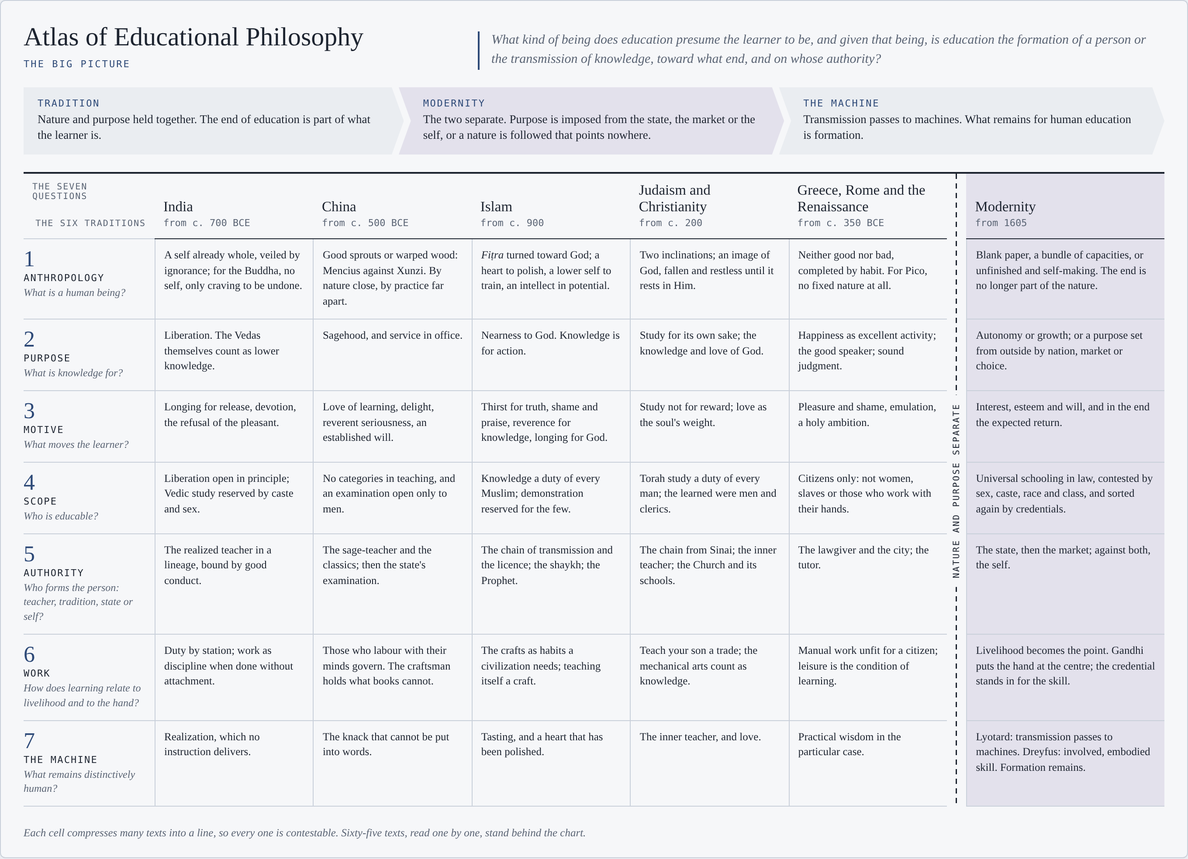
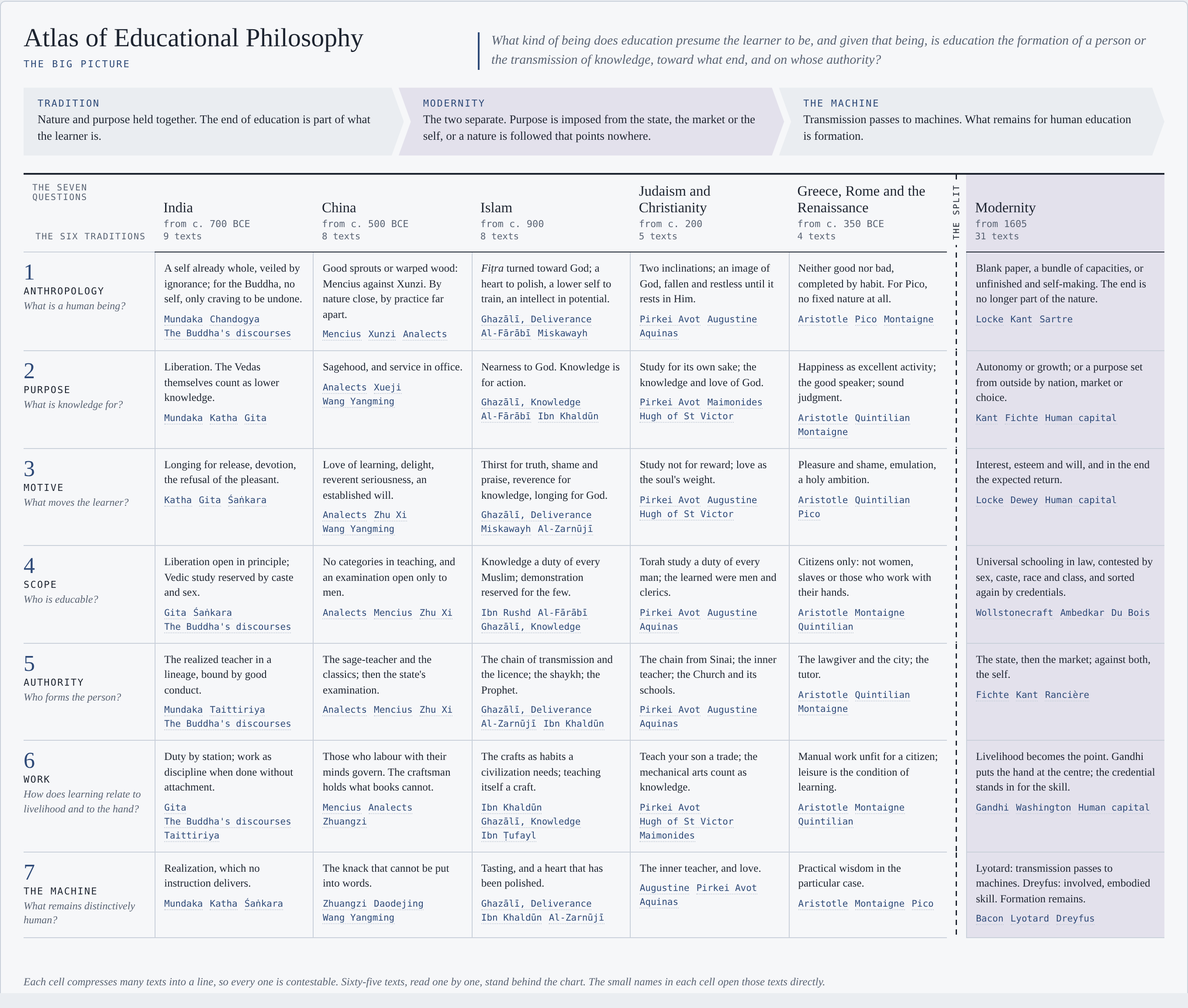
Make the big picture a switchboard into the atlas
Every cell opens a short account of how that tradition answers the
question, with its texts and links to neighbouring cells, the question
page and the tradition essay. Question and tradition headings link to
their pages, key texts are linked from each cell, and three routes walk
through the chart step by step.

Claude-Session: https://claude.ai/code/session_01QoMjmo5U5HiLa3LL1vazQt

diff --git a/index.html b/index.html
@@ -246,9 +246,57 @@ dt .n{color:var(--accent)}
 .bp-rh span:last-child{font-style:italic;color:var(--muted);font-size:12px}
 .bp-td{border-left:1px solid var(--rule)}
 .bp-mod{background:var(--bp-mod)}
-.bp-split{grid-row:1 / span 8;grid-column:7;display:flex;align-items:center;justify-content:center;background:repeating-linear-gradient(180deg,var(--fg) 0 6px,transparent 6px 11px) center/1.5px 100% no-repeat}
-.bp-split span{writing-mode:vertical-rl;transform:rotate(180deg);font:500 10px var(--mono);letter-spacing:.14em;text-transform:uppercase;background:var(--surface);color:var(--fg);padding:10px 2px}
 .bp-foot{font-size:12.5px;color:var(--muted);font-style:italic}
+
+
+.bp-arc li a{display:grid;gap:3px;text-decoration:none;color:inherit}
+.bp-arc li a:hover span{color:var(--accent)}
+.bp-routes{display:flex;flex-wrap:wrap;gap:8px 10px;align-items:stretch}
+.bp-rl{font:500 10.5px var(--mono);letter-spacing:.12em;text-transform:uppercase;color:var(--muted);align-self:center;margin-right:4px}
+.bp-routes a{display:grid;gap:1px;padding:7px 12px;border:1px solid var(--rule);border-radius:4px;text-decoration:none;background:var(--bg);min-width:0}
+.bp-routes a b{font:400 15px/1.2 var(--display)}
+.bp-routes a span{font-size:12px;color:var(--muted)}
+.bp-routes a:hover,.bp-routes a[aria-current="true"]{border-color:var(--accent)}
+.bp-routes a[aria-current="true"]{box-shadow:inset 0 -2px 0 var(--accent)}
+.bp-grid{grid-template-columns:150px repeat(5,minmax(0,1fr)) 22px minmax(0,1.25fr)}
+.bp-sp{border-bottom:1px solid transparent;background:repeating-linear-gradient(180deg,var(--fg) 0 6px,transparent 6px 11px) center/1.5px 100% no-repeat}
+.bp-sp.h{display:flex;align-items:flex-end;justify-content:center;padding-bottom:8px}
+.bp-sp.h span{writing-mode:vertical-rl;transform:rotate(180deg);font:500 9.5px var(--mono);letter-spacing:.14em;text-transform:uppercase;background:var(--surface);padding:6px 1px}
+.bp-th a,.bp-rh a{text-decoration:none;color:inherit;display:grid;gap:2px}
+.bp-th a:hover b,.bp-rh a:hover b{color:var(--accent)}
+.bp-th em{font:normal 10.5px var(--mono);color:var(--muted)}
+.bp-td{position:relative;display:grid;gap:8px;align-content:start;cursor:pointer;transition:background .15s}
+.bp-td:hover{background:color-mix(in srgb,var(--accent) 7%,transparent)}
+.bp-td.on{background:color-mix(in srgb,var(--accent) 14%,transparent);box-shadow:inset 0 0 0 1.5px var(--accent)}
+.bp-td.dim{opacity:.38}
+.bp-td .cs{color:var(--fg)}
+.bp-td button.cs{all:unset;cursor:pointer;display:block}
+.bp-td button.cs:focus-visible{outline:2px solid var(--accent);outline-offset:2px}
+.bp-td .ks{display:flex;flex-wrap:wrap;gap:3px 8px}
+.bp-td .ks a{font:500 10.5px var(--mono);color:var(--accent);text-decoration:none;border-bottom:1px dotted var(--rule)}
+.bp-td .ks a:hover{border-bottom-color:var(--accent)}
+.bp-td:has(.st){padding-right:30px}
+.bp-td .st{position:absolute;top:6px;right:6px;width:19px;height:19px;border-radius:50%;background:var(--accent);color:var(--bg);font:500 11px/19px var(--mono);text-align:center}
+.bp-panel{grid-column:1 / -1;border:1.5px solid var(--accent);border-radius:4px;background:var(--bg);margin:6px 0 12px;padding:18px 20px;display:grid;gap:12px}
+#bppanel-narrow .bp-panel{margin-top:16px}
+.bp-panel .pe{display:flex;flex-wrap:wrap;gap:4px 14px;font:500 11px var(--mono);letter-spacing:.1em;text-transform:uppercase;color:var(--muted)}
+.bp-panel .pe a{color:var(--accent);text-decoration:none}
+.bp-panel .rt{font:500 11px var(--mono);letter-spacing:.08em;color:var(--ochre);text-transform:uppercase}
+.bp-panel .rstep{font:400 18px/1.4 var(--display);border-left:3px solid var(--ochre);padding-left:12px;max-width:62ch}
+.bp-panel h3{font-size:22px;max-width:40ch}
+.bp-panel .story{max-width:66ch;font-size:15.5px}
+.bp-panel ul{list-style:none;margin:0;padding:0;display:grid;gap:0;border-top:1px solid var(--rule)}
+.bp-panel li{display:grid;grid-template-columns:200px minmax(0,1fr);gap:14px;padding:7px 0;border-bottom:1px solid var(--rule);font-size:14px}
+.bp-panel li.key a{font-weight:600}
+.bp-panel li .tag{display:inline-flex;align-items:center;gap:5px;font:500 11px var(--mono);margin-right:8px;white-space:nowrap}
+.bp-panel li .tag::before{content:"";width:8px;height:8px;border-radius:50%;background:currentColor}
+.bp-panel .lt{font:500 10.5px var(--mono);letter-spacing:.1em;text-transform:uppercase;color:var(--muted)}
+.bp-nav{display:flex;flex-wrap:wrap;gap:8px;align-items:center;justify-content:space-between;padding-top:4px}
+.bp-nav .grp{display:flex;flex-wrap:wrap;gap:6px}
+.bp-nav a{font:500 12px var(--mono);padding:5px 10px;border:1px solid var(--rule);border-radius:3px;text-decoration:none;background:var(--surface)}
+.bp-nav a:hover{border-color:var(--accent);color:var(--accent)}
+.bp-nav a.pri{background:var(--accent);border-color:var(--accent);color:var(--bg)}
+@media (max-width:900px){.bp-panel li{grid-template-columns:minmax(0,1fr);gap:2px}}
 
 /* Narrow screens: contents become a drawer */
 @media (max-width:900px){
@@ -359,20 +407,23 @@ dt .n{color:var(--accent)}
     <article class="view view-wide" data-view="big" hidden>
       <div class="eyebrow">Begin here</div>
       <h1>The Big Picture</h1>
-      <p class="sub">The seven questions set against the six traditions, with the movement of the whole atlas above them. On a small screen, scroll the chart sideways. <a href="big-picture.png" target="_blank" rel="noopener">Open the chart as an image</a>.</p>
+      <p class="sub">The seven questions set against the six traditions, with the movement of the whole atlas above them. Every part of the chart opens onto the atlas: choose a cell to read how that tradition answers the question and go on to its texts, choose a question or a tradition to read its page, or follow one of the three routes, which walk through the chart as a story. On a small screen, scroll the chart sideways. <a href="big-picture.png" target="_blank" rel="noopener">Open the chart as an image</a>.</p>
       <div class="bp-scroll"><figure class="bp" id="bp" aria-label="The seven questions answered by the six traditions">
         <div class="bp-head">
           <div class="bp-title">Atlas of Educational Philosophy<span>The big picture</span></div>
           <p class="bp-gq">What kind of being does education presume the learner to be, and given that being, is education the formation of a person or the transmission of knowledge, toward what end, and on whose authority?</p>
         </div>
         <ol class="bp-arc">
-          <li><b>Tradition</b><span>Nature and purpose held together. The end of education is part of what the learner is.</span></li>
-          <li><b>Modernity</b><span>The two separate. Purpose is imposed from the state, the market or the self, or a nature is followed that points nowhere.</span></li>
-          <li><b>The machine</b><span>Transmission passes to machines. What remains for human education is formation.</span></li>
+          <li><a href="#q-purpose"><b>Tradition</b><span>Nature and purpose held together. The end of education is part of what the learner is.</span></a></li>
+          <li><a href="#on-mod"><b>Modernity</b><span>The two separate. Purpose is imposed from the state, the market or the self, or a nature is followed that points nowhere.</span></a></li>
+          <li><a href="#q-machine"><b>The machine</b><span>Transmission passes to machines. What remains for human education is formation.</span></a></li>
         </ol>
-        <div class="bp-grid"><div class="bp-c bp-corner"><span>The seven questions</span><span>The six traditions</span></div><div class="bp-c bp-th bp-india"><b>India</b><span>from c. 700 BCE</span></div><div class="bp-c bp-th bp-china"><b>China</b><span>from c. 500 BCE</span></div><div class="bp-c bp-th bp-islam"><b>Islam</b><span>from c. 900</span></div><div class="bp-c bp-th bp-abr"><b>Judaism and Christianity</b><span>from c. 200</span></div><div class="bp-c bp-th bp-west"><b>Greece, Rome and the Renaissance</b><span>from c. 350 BCE</span></div><div class="bp-split" aria-hidden="true"><span>Nature and purpose separate</span></div><div class="bp-c bp-th bp-mod"><b>Modernity</b><span>from 1605</span></div><div class="bp-c bp-rh"><span class="bp-n">1</span><b>Anthropology</b><span>What is a human being?</span></div><div class="bp-c bp-td bp-india">A self already whole, veiled by ignorance; for the Buddha, no self, only craving to be undone.</div><div class="bp-c bp-td bp-china">Good sprouts or warped wood: Mencius against Xunzi. By nature close, by practice far apart.</div><div class="bp-c bp-td bp-islam"><i>Fiṭra</i> turned toward God; a heart to polish, a lower self to train, an intellect in potential.</div><div class="bp-c bp-td bp-abr">Two inclinations; an image of God, fallen and restless until it rests in Him.</div><div class="bp-c bp-td bp-west">Neither good nor bad, completed by habit. For Pico, no fixed nature at all.</div><div class="bp-c bp-td bp-mod">Blank paper, a bundle of capacities, or unfinished and self-making. The end is no longer part of the nature.</div><div class="bp-c bp-rh"><span class="bp-n">2</span><b>Purpose</b><span>What is knowledge for?</span></div><div class="bp-c bp-td bp-india">Liberation. The Vedas themselves count as lower knowledge.</div><div class="bp-c bp-td bp-china">Sagehood, and service in office.</div><div class="bp-c bp-td bp-islam">Nearness to God. Knowledge is for action.</div><div class="bp-c bp-td bp-abr">Study for its own sake; the knowledge and love of God.</div><div class="bp-c bp-td bp-west">Happiness as excellent activity; the good speaker; sound judgment.</div><div class="bp-c bp-td bp-mod">Autonomy or growth; or a purpose set from outside by nation, market or choice.</div><div class="bp-c bp-rh"><span class="bp-n">3</span><b>Motive</b><span>What moves the learner?</span></div><div class="bp-c bp-td bp-india">Longing for release, devotion, the refusal of the pleasant.</div><div class="bp-c bp-td bp-china">Love of learning, delight, reverent seriousness, an established will.</div><div class="bp-c bp-td bp-islam">Thirst for truth, shame and praise, reverence for knowledge, longing for God.</div><div class="bp-c bp-td bp-abr">Study not for reward; love as the soul's weight.</div><div class="bp-c bp-td bp-west">Pleasure and shame, emulation, a holy ambition.</div><div class="bp-c bp-td bp-mod">Interest, esteem and will, and in the end the expected return.</div><div class="bp-c bp-rh"><span class="bp-n">4</span><b>Scope</b><span>Who is educable?</span></div><div class="bp-c bp-td bp-india">Liberation open in principle; Vedic study reserved by caste and sex.</div><div class="bp-c bp-td bp-china">No categories in teaching, and an examination open only to men.</div><div class="bp-c bp-td bp-islam">Knowledge a duty of every Muslim; demonstration reserved for the few.</div><div class="bp-c bp-td bp-abr">Torah study a duty of every man; the learned were men and clerics.</div><div class="bp-c bp-td bp-west">Citizens only: not women, slaves or those who work with their hands.</div><div class="bp-c bp-td bp-mod">Universal schooling in law, contested by sex, caste, race and class, and sorted again by credentials.</div><div class="bp-c bp-rh"><span class="bp-n">5</span><b>Authority</b><span>Who forms the person: teacher, tradition, state or self?</span></div><div class="bp-c bp-td bp-india">The realized teacher in a lineage, bound by good conduct.</div><div class="bp-c bp-td bp-china">The sage-teacher and the classics; then the state's examination.</div><div class="bp-c bp-td bp-islam">The chain of transmission and the licence; the shaykh; the Prophet.</div><div class="bp-c bp-td bp-abr">The chain from Sinai; the inner teacher; the Church and its schools.</div><div class="bp-c bp-td bp-west">The lawgiver and the city; the tutor.</div><div class="bp-c bp-td bp-mod">The state, then the market; against both, the self.</div><div class="bp-c bp-rh"><span class="bp-n">6</span><b>Work</b><span>How does learning relate to livelihood and to the hand?</span></div><div class="bp-c bp-td bp-india">Duty by station; work as discipline when done without attachment.</div><div class="bp-c bp-td bp-china">Those who labour with their minds govern. The craftsman holds what books cannot.</div><div class="bp-c bp-td bp-islam">The crafts as habits a civilization needs; teaching itself a craft.</div><div class="bp-c bp-td bp-abr">Teach your son a trade; the mechanical arts count as knowledge.</div><div class="bp-c bp-td bp-west">Manual work unfit for a citizen; leisure is the condition of learning.</div><div class="bp-c bp-td bp-mod">Livelihood becomes the point. Gandhi puts the hand at the centre; the credential stands in for the skill.</div><div class="bp-c bp-rh"><span class="bp-n">7</span><b>The Machine</b><span>What remains distinctively human?</span></div><div class="bp-c bp-td bp-india">Realization, which no instruction delivers.</div><div class="bp-c bp-td bp-china">The knack that cannot be put into words.</div><div class="bp-c bp-td bp-islam">Tasting, and a heart that has been polished.</div><div class="bp-c bp-td bp-abr">The inner teacher, and love.</div><div class="bp-c bp-td bp-west">Practical wisdom in the particular case.</div><div class="bp-c bp-td bp-mod">Lyotard: transmission passes to machines. Dreyfus: involved, embodied skill. Formation remains.</div></div>
-        <figcaption class="bp-foot">Each cell compresses many texts into a line, so every one is contestable. Sixty-five texts, read one by one, stand behind the chart.</figcaption>
+        <nav class="bp-routes" aria-label="Routes through the chart"><span class="bp-rl">Three ways through the chart</span><a href="#route-reversal-1" data-route="reversal"><b>The order reversed</b><span>How nature and purpose came apart. 6 steps</span></a><a href="#route-scope-1" data-route="scope"><b>Who may learn</b><span>Open in doctrine, restricted in practice. 5 steps</span></a><a href="#route-hand-1" data-route="hand"><b>The hand and the machine</b><span>From the craftsman's knack to what machines cannot do. 6 steps</span></a></nav>
+        <div class="bp-grid" id="bpgrid"></div>
+        <div id="bppanel-wide"></div>
+        <figcaption class="bp-foot">Each cell compresses many texts into a line, so every one is contestable. Sixty-five texts, read one by one, stand behind the chart. The small names in each cell open those texts directly.</figcaption>
       </figure></div>
+      <div id="bppanel-narrow"></div>
     </article>
     <article class="view" data-view="map" hidden>
       <div class="eyebrow">Begin here</div>
@@ -1383,6 +1434,8 @@ function wireMine(n){
 
 function show(id,{scroll=true}={}){
   if(id in OLD)id=OLD[id]||ordered()[0].d.s;
+  let sub=null;
+  if(/^(cell|route)-/.test(id)){sub=id;id="big"}
   if(!(id in BY_SLUG)&&!document.querySelector(`.view[data-view="${CSS.escape(id)}"]`))id="question";
   VIEW=id;editing=false;
   document.querySelectorAll(".view").forEach(v=>v.hidden=true);
@@ -1395,12 +1448,14 @@ function show(id,{scroll=true}={}){
   }else{
     const v=document.querySelector(`.view[data-view="${id}"]`);v.hidden=false;
     if(id==="readings")drawReadings();
+    if(id==="big")openBig(sub||"");
     title=TITLES[id];
   }
   document.getElementById("where").textContent=title;
   document.title=(id==="question"?"":title+" · ")+"Atlas of Educational Philosophy";
   closeMenu();markCurrent(true);
-  if(scroll)window.scrollTo(0,0);
+  if(sub){const p=document.getElementById("bppanel");if(p){const r=p.getBoundingClientRect();if(r.top<70||r.top>innerHeight*0.6)window.scrollTo({top:scrollY+r.top-(narrow()?70:120),behavior:matchMedia("(prefers-reduced-motion:reduce)").matches?"auto":"smooth"})}}
+  else if(scroll)window.scrollTo(0,0);
 }
 function route(){show(decodeURIComponent(location.hash.slice(1))||"question")}
 window.addEventListener("hashchange",route);
@@ -1419,6 +1474,72 @@ const ANS={
 };
 document.querySelectorAll(".qtable").forEach(box=>{const f=ANS[box.dataset.q];
   box.innerHTML=TKEY.map(t=>`<div class="qh">${TRAD[t]}</div>`+E.filter(d=>d.t===t).map(d=>`<div class="qr"><a href="#${d.s}">${d.n}</a><div>${f(d)}</div></div>`).join("")).join("");});
+
+
+/* The big picture as a switchboard */
+const CELLS={"anthropology": {"india": {"s": "A self already whole, veiled by ignorance; for the Buddha, no self, only craving to be undone.", "story": "The Upanishads begin from a self that is already what it seeks, hidden by ignorance, so the teacher removes a veil rather than adding anything. The Buddha denies the abiding self and treats the learner as a stream of craving and ignorance to be undone, and Śaṅkara makes the veiled self a doctrine.", "keys": ["Mundaka Upanishad", "Chandogya Upanishad VI", "The Buddha's discourses"]}, "china": {"s": "Good sprouts or warped wood: Mencius against Xunzi. By nature close, by practice far apart.", "story": "Confucius said only that people are close by nature and far apart by practice, and the quarrel that followed filled the space he left. Mencius sees sprouts of goodness to be tended and not forced; Xunzi sees warped wood that ritual and a teacher must steam straight.", "keys": ["Mencius", "Xunzi", "Analects"]}, "islam": {"s": "<i>Fiṭra</i> turned toward God; a heart to polish, a lower self to train, an intellect in potential.", "story": "Every child is born with <i>fiṭra</i>, an original disposition turned toward God, which upbringing overlays. The philosophers add an intellect in potential that learning actualizes; al-Ghazālī adds a heart to be polished and a lower self to be trained.", "keys": ["Al-Ghazālī, Deliverance from Error", "Al-Fārābī, The Attainment of Happiness", "Miskawayh, The Refinement of Character"]}, "abr": {"s": "Two inclinations; an image of God, fallen and restless until it rests in Him.", "story": "The rabbis give the learner two inclinations and Torah as the antidote to the evil one. Augustine's learner is fallen and restless, reached only by the inner teacher; Aquinas restores a nature that can be helped as a doctor helps a body.", "keys": ["Pirkei Avot and the house of study", "Augustine, The Teacher", "Aquinas, On the Teacher"]}, "west": {"s": "Neither good nor bad, completed by habit. For Pico, no fixed nature at all.", "story": "Aristotle's learner is neither good nor bad by nature but able to receive virtue, which habit completes. At the Renaissance Pico gives Adam no fixed nature at all, and Montaigne turns attention to the judgment of a particular boy.", "keys": ["Aristotle on habit and practical wisdom", "Pico della Mirandola, Oration on the Dignity of Man", "Montaigne, Of the Education of Children"]}, "mod": {"s": "Blank paper, a bundle of capacities, or unfinished and self-making. The end is no longer part of the nature.", "story": "Locke's blank paper, Kant's crooked timber, Dewey's plastic growth, Sartre's existence before essence. Different as they are, they share a nature that no longer carries its end inside it.", "keys": ["Locke, Some Thoughts Concerning Education", "Kant, Enlightenment and Pedagogy", "Sartre, Existentialism Is a Humanism"]}}, "purpose": {"india": {"s": "Liberation. The Vedas themselves count as lower knowledge.", "story": "The end is liberation, which the Mundaka calls the higher knowledge and sets above the Vedas themselves. The Gita carries the same end into the field of action, as work done without attachment to its fruits.", "keys": ["Mundaka Upanishad", "Katha Upanishad", "Bhagavad Gita"]}, "china": {"s": "Sagehood, and service in office.", "story": "The end is sagehood, open to anyone in principle, and service in office for those who reach it. The Xueji's nine years end in a person who stands firm and does not turn back; Wang Yangming finds sagehood in ordinary life.", "keys": ["Analects", "Xueji (Record of Learning)", "Wang Yangming, Instructions for Practical Living"]}, "islam": {"s": "Nearness to God. Knowledge is for action.", "story": "The end is nearness to God, and knowledge that issues in action; knowledge without action, al-Ghazālī writes, is madness. Fārābī frames the same end as happiness in a virtuous city, and Ibn Khaldūn as the perfection of the thinking faculty.", "keys": ["Al-Ghazālī, The Book of Knowledge", "Al-Fārābī, The Attainment of Happiness", "Ibn Khaldūn, Muqaddimah on the sciences"]}, "abr": {"s": "Study for its own sake; the knowledge and love of God.", "story": "Study is for its own sake and joined to deeds, and its end is the knowledge and love of God. Maimonides makes intellectual apprehension of God the one perfection that is truly a person's own.", "keys": ["Pirkei Avot and the house of study", "Maimonides, Guide of the Perplexed", "Hugh of St Victor, Didascalicon"]}, "west": {"s": "Happiness as excellent activity; the good speaker; sound judgment.", "story": "Happiness as the excellent activity of the soul, the good man skilled in speaking, a well-made head. In each case the end is part of what a human being is for.", "keys": ["Aristotle on habit and practical wisdom", "Quintilian, The Orator's Education", "Montaigne, Of the Education of Children"]}, "mod": {"s": "Autonomy or growth; or a purpose set from outside by nation, market or choice.", "story": "Kant's autonomy and Humboldt's Bildung still keep an end inside the person. After them the end arrives from outside, as Fichte's nation, Macaulay's empire or the market's return, or it is left to each person's choice, or dissolves into Dewey's growth.", "keys": ["Kant, Enlightenment and Pedagogy", "Fichte, Addresses to the German Nation", "Schultz and Becker, Human Capital"]}}, "motive": {"india": {"s": "Longing for release, devotion, the refusal of the pleasant.", "story": "Longing for release, strong enough in Naciketas to refuse wealth and long life; devotion in the Gita; the desire for liberation that Śaṅkara requires before the teaching can begin.", "keys": ["Katha Upanishad", "Bhagavad Gita", "Śaṅkara, Upadeśasāhasrī"]}, "china": {"s": "Love of learning, delight, reverent seriousness, an established will.", "story": "Confucius prizes the love of learning above every other gift and finds it rare. Mencius trusts delight in the good, Zhu Xi reverent seriousness, Wang Yangming a will established first.", "keys": ["Analects", "Zhu Xi on learning and reading", "Wang Yangming, Instructions for Practical Living"]}, "islam": {"s": "Thirst for truth, shame and praise, reverence for knowledge, longing for God.", "story": "Al-Ghazālī's thirst to grasp the real nature of things, Miskawayh's blush of shame, Zarnūjī's reverence for knowledge and its books, and beneath them all the longing for God.", "keys": ["Al-Ghazālī, Deliverance from Error", "Miskawayh, The Refinement of Character", "Al-Zarnūjī, Instruction of the Student"]}, "abr": {"s": "Study not for reward; love as the soul's weight.", "story": "Avot warns against serving a master for the sake of reward; study is for its own sake. Augustine names love as the soul's weight, carrying it wherever it goes.", "keys": ["Pirkei Avot and the house of study", "Augustine, The Teacher", "Hugh of St Victor, Didascalicon"]}, "west": {"s": "Pleasure and shame, emulation, a holy ambition.", "story": "Aristotle trains through pleasure and pain and then shame; Quintilian through rivalry and praise; Pico through a holy ambition that will not rest with the middling.", "keys": ["Aristotle on habit and practical wisdom", "Quintilian, The Orator's Education", "Pico della Mirandola, Oration on the Dignity of Man"]}, "mod": {"s": "Interest, esteem and will, and in the end the expected return.", "story": "Locke's esteem and disgrace, Rousseau's ‘What is it good for?’, Kant's courage and Dewey's interest. Human capital completes the line with the expected return.", "keys": ["Locke, Some Thoughts Concerning Education", "Dewey, Democracy and Education", "Schultz and Becker, Human Capital"]}}, "scope": {"india": {"s": "Liberation open in principle; Vedic study reserved by caste and sex.", "story": "Liberation is open in principle, and the Gita opens it through devotion to women, vaiśyas and śūdras. Vedic study was reserved by caste and sex, and Śaṅkara keeps the śūdra from the Veda; the Buddha's order admitted every caste.", "keys": ["Bhagavad Gita", "Śaṅkara, Upadeśasāhasrī", "The Buddha's discourses"]}, "china": {"s": "No categories in teaching, and an examination open only to men.", "story": "In teaching there are no categories of person, and anyone can become a sage. The examinations that carried the teaching into office for thirteen centuries admitted only men.", "keys": ["Analects", "Mencius", "Zhu Xi on learning and reading"]}, "islam": {"s": "Knowledge a duty of every Muslim; demonstration reserved for the few.", "story": "Seeking knowledge is a duty of every Muslim, and al-Ghazālī owes each person the knowledge of his own duties. Fārābī and Ibn Rushd still reserve demonstration for those fit to receive it.", "keys": ["Ibn Rushd, The Decisive Treatise", "Al-Fārābī, The Attainment of Happiness", "Al-Ghazālī, The Book of Knowledge"]}, "abr": {"s": "Torah study a duty of every man; the learned were men and clerics.", "story": "Torah study is a duty laid on every Jewish man, and the learned of Christendom were men and clerics. Augustine's inner teacher, by contrast, speaks in every soul.", "keys": ["Pirkei Avot and the house of study", "Augustine, The Teacher", "Aquinas, On the Teacher"]}, "west": {"s": "Citizens only: not women, slaves or those who work with their hands.", "story": "Aristotle's public education is for citizens, which excluded women, slaves and those who worked with their hands. Montaigne's tutor serves a single noble boy.", "keys": ["Aristotle on habit and practical wisdom", "Montaigne, Of the Education of Children", "Quintilian, The Orator's Education"]}, "mod": {"s": "Universal schooling in law, contested by sex, caste, race and class, and sorted again by credentials.", "story": "Schooling becomes universal in law. Wollstonecraft answers Rousseau on sex, Ambedkar answers caste, Du Bois grades a talented tenth, and examinations and credentials sort the learners again.", "keys": ["Wollstonecraft, A Vindication of the Rights of Woman", "Ambedkar, Annihilation of Caste", "Du Bois, The Souls of Black Folk"]}}, "authority": {"india": {"s": "The realized teacher in a lineage, bound by good conduct.", "story": "The teacher established in brahman, approached fuel in hand. Yet the Taittiriya tells departing pupils to follow only his good conduct, and the Buddha tells the Kālāmas to see for themselves.", "keys": ["Mundaka Upanishad", "Taittiriya Upanishad 1.11", "The Buddha's discourses"]}, "china": {"s": "The sage-teacher and the classics; then the state's examination.", "story": "The sage and the classics he hands on; Mencius would rather have no Book of Documents than believe all of it. From the Sui onward the state's examinations decided whose learning counted.", "keys": ["Analects", "Mencius", "Zhu Xi on learning and reading"]}, "islam": {"s": "The chain of transmission and the licence; the shaykh; the Prophet.", "story": "Chains of transmission and the teacher's licence, the shaykh who trains the seeker, and the Prophet as the final teacher against the Taʿlīmiyya's claim for an infallible living imam.", "keys": ["Al-Ghazālī, Deliverance from Error", "Al-Zarnūjī, Instruction of the Student", "Ibn Khaldūn, Muqaddimah on the sciences"]}, "abr": {"s": "The chain from Sinai; the inner teacher; the Church and its schools.", "story": "A chain from Sinai through elders and prophets to the sages; Augustine's inner teacher; Aquinas's human teacher, who assists nature as a doctor does.", "keys": ["Pirkei Avot and the house of study", "Augustine, The Teacher", "Aquinas, On the Teacher"]}, "west": {"s": "The lawgiver and the city; the tutor.", "story": "Aristotle hands education to the lawgiver and the city; Quintilian and Montaigne to the master and the tutor.", "keys": ["Aristotle on habit and practical wisdom", "Quintilian, The Orator's Education", "Montaigne, Of the Education of Children"]}, "mod": {"s": "The state, then the market; against both, the self.", "story": "The state takes formation over from churches and households, the market follows, and the self is set against both: Kant's autonomy, Nietzsche's liberating educator, Rancière's ignorant master.", "keys": ["Fichte, Addresses to the German Nation", "Kant, Enlightenment and Pedagogy", "Rancière, The Ignorant Schoolmaster"]}}, "work": {"india": {"s": "Duty by station; work as discipline when done without attachment.", "story": "Duty is fixed by station, and the Gita makes work a discipline when done without attachment to its fruits. The Buddha adds right livelihood, a living that harms no one.", "keys": ["Bhagavad Gita", "The Buddha's discourses", "Taittiriya Upanishad 1.11"]}, "china": {"s": "Those who labour with their minds govern. The craftsman holds what books cannot.", "story": "Mencius divides those who labour with their minds from those who labour with their strength, and Confucius sends Fan Chi to an old farmer. Yet Zhuangzi's cook and wheelwright hold what the duke's books cannot.", "keys": ["Mencius", "Analects", "Zhuangzi"]}, "islam": {"s": "The crafts as habits a civilization needs; teaching itself a craft.", "story": "Ibn Khaldūn treats teaching itself as a craft and the crafts as habits a civilization needs; al-Ghazālī makes them communal obligations; Ḥayy makes his own tools before he reaches philosophy.", "keys": ["Ibn Khaldūn, Muqaddimah on the sciences", "Al-Ghazālī, The Book of Knowledge", "Ibn Ṭufayl, Ḥayy ibn Yaqẓān"]}, "abr": {"s": "Teach your son a trade; the mechanical arts count as knowledge.", "story": "A father must teach his son a trade, and Torah is best joined to a worldly occupation. Hugh of St Victor counts the mechanical arts as knowledge, and Maimonides lived as a physician.", "keys": ["Pirkei Avot and the house of study", "Hugh of St Victor, Didascalicon", "Maimonides, Guide of the Perplexed"]}, "west": {"s": "Manual work unfit for a citizen; leisure is the condition of learning.", "story": "Aristotle calls manual work unfit for a citizen and makes leisure the condition of learning. Montaigne, against the grain, wants body and mind formed together.", "keys": ["Aristotle on habit and practical wisdom", "Montaigne, Of the Education of Children", "Quintilian, The Orator's Education"]}, "mod": {"s": "Livelihood becomes the point. Gandhi puts the hand at the centre; the credential stands in for the skill.", "story": "Locke's gentleman learns carpentry and Emile becomes a carpenter. Gandhi puts the craft at the centre of the school, Washington and Du Bois argue trades against colleges, and human capital makes livelihood the point.", "keys": ["Gandhi, Basic Education (Nai Talim)", "Washington, Up from Slavery", "Schultz and Becker, Human Capital"]}}, "machine": {"india": {"s": "Realization, which no instruction delivers.", "story": "What the Upanishads call realization cannot be handed over by instruction, so nothing that only transmits can give it.", "keys": ["Mundaka Upanishad", "Katha Upanishad", "Śaṅkara, Upadeśasāhasrī"]}, "china": {"s": "The knack that cannot be put into words.", "story": "Wheelwright Bian could not teach his knack to his son, and the Daodejing imagines a people who have labour-saving tools and leave them unused.", "keys": ["Zhuangzi", "Daodejing", "Wang Yangming, Instructions for Practical Living"]}, "islam": {"s": "Tasting, and a heart that has been polished.", "story": "Al-Ghazālī's tasting, the difference between knowing the definition of drunkenness and being drunk, and Ibn Khaldūn's <i>malaka</i>, which comes only by practice and by contact with masters.", "keys": ["Al-Ghazālī, Deliverance from Error", "Ibn Khaldūn, Muqaddimah on the sciences", "Al-Zarnūjī, Instruction of the Student"]}, "abr": {"s": "The inner teacher, and love.", "story": "Augustine's inner teacher, which no sign reaches, and the companion of the house of study, with whom argument itself is learning.", "keys": ["Augustine, The Teacher", "Pirkei Avot and the house of study", "Aquinas, On the Teacher"]}, "west": {"s": "Practical wisdom in the particular case.", "story": "Aristotle's practical wisdom concerns particulars and comes from experience, which is why the young lack it.", "keys": ["Aristotle on habit and practical wisdom", "Montaigne, Of the Education of Children", "Pico della Mirandola, Oration on the Dignity of Man"]}, "mod": {"s": "Lyotard: transmission passes to machines. Dreyfus: involved, embodied skill. Formation remains.", "story": "Bacon wanted a method that would level wits; Lyotard foresaw transmission passing to data banks; Dreyfus argued that involved, embodied skill cannot be written down as rules. What remains is formation.", "keys": ["Bacon, The Advancement of Learning", "Lyotard, The Postmodern Condition", "Dreyfus, What Computers Can't Do"]}}};
+const ROUTES=[{"id": "reversal", "title": "The order reversed", "steps": [["anthropology", "west", "Begin with Aristotle. A human being has a characteristic work, and education completes it by habit, so nature and purpose are one."], ["purpose", "islam", "Al-Ghazālī keeps the same unity in another key: <i>fiṭra</i> is already turned toward God, and knowledge is for action."], ["anthropology", "mod", "Bacon sets final causes aside, and Locke's child becomes blank paper. The nature no longer carries its end."], ["authority", "mod", "So the purpose must come from outside: Fichte's nation, Macaulay's empire, the market."], ["motive", "mod", "The motive follows the purpose: esteem, then interest, then the expected return."], ["purpose", "mod", "Against both, Rousseau and Dewey follow a nature that points nowhere, while Newman, Iqbal and MacIntyre try to restore an end."]]}, {"id": "scope", "title": "Who may learn", "steps": [["scope", "china", "Confucius says there are no categories in teaching; the examinations admit only men."], ["scope", "india", "Liberation is open through devotion, while Vedic study is reserved by caste and sex."], ["scope", "west", "Aristotle educates citizens, and citizens exclude women, slaves and manual workers."], ["scope", "islam", "Knowledge is every Muslim's duty, and demonstration is kept for the few."], ["scope", "mod", "Modernity makes schooling universal in law, and Wollstonecraft, Ambedkar and Du Bois show what that leaves unsettled."]]}, {"id": "hand", "title": "The hand and the machine", "steps": [["work", "west", "Aristotle calls manual work unfit for a citizen."], ["work", "china", "Mencius agrees, but Zhuangzi gives the deepest knowledge to a cook and a wheelwright."], ["work", "abr", "The rabbis require a trade, and Hugh counts the mechanical arts as knowledge."], ["work", "mod", "Gandhi puts the hand at the centre of the school just as livelihood becomes education's point."], ["machine", "china", "The knack that could not be taught in words returns as the question of the machine."], ["machine", "mod", "Lyotard and Dreyfus: transmission passes to machines, and formation is what remains."]]}];
+const QN={"anthropology": ["1", "Anthropology", "What is a human being?"], "purpose": ["2", "Purpose", "What is knowledge for?"], "motive": ["3", "Motive", "What moves the learner?"], "scope": ["4", "Scope", "Who is educable?"], "authority": ["5", "Authority", "Who forms the person?"], "work": ["6", "Work", "How does learning relate to livelihood and to the hand?"], "machine": ["7", "The Machine", "What remains distinctively human?"]};
+const COLS={"india": ["India", "from c. 700 BCE"], "china": ["China", "from c. 500 BCE"], "islam": ["Islam", "from c. 900"], "abr": ["Judaism and Christianity", "from c. 200"], "west": ["Greece, Rome and the Renaissance", "from c. 350 BCE"], "mod": ["Modernity", "from 1605"]};
+const QK=Object.keys(QN);
+const BYN={};E.forEach(d=>BYN[d.n]=d);
+let CELL=null,RT=null;
+function drawGrid(){
+  const g=document.getElementById("bpgrid");if(!g)return;
+  const route=RT?ROUTES.find(r=>r.id===RT.id):null;
+  const stepOf=(q,t)=>route?route.steps.findIndex(x=>x[0]===q&&x[1]===t)+1:0;
+  let h=`<div class="bp-c bp-corner"><span>The seven questions</span><span>The six traditions</span></div>`;
+  TKEY.forEach(t=>{if(t==="mod")h+=`<div class="bp-sp h" aria-hidden="true"><span>The split</span></div>`;
+    h+=`<div class="bp-c bp-th bp-${t}"><a href="#on-${t}" title="Read the essay on this tradition"><b>${COLS[t][0]}</b><span>${COLS[t][1]}</span><em>${E.filter(d=>d.t===t).length} texts</em></a></div>`});
+  QK.forEach(q=>{
+    h+=`<div class="bp-c bp-rh"><a href="#q-${q}" title="Read every text on this question"><span class="bp-n">${QN[q][0]}</span><b>${QN[q][1]}</b><span>${QN[q][2]}</span></a></div>`;
+    TKEY.forEach(t=>{const c=CELLS[q][t];const n=stepOf(q,t);const on=CELL&&CELL[0]===q&&CELL[1]===t;
+      if(t==="mod")h+=`<div class="bp-sp" aria-hidden="true"></div>`;
+      h+=`<div class="bp-c bp-td bp-${t}${on?" on":""}${route&&!n?" dim":""}" data-q="${q}" data-t="${t}">${n?`<span class="st">${n}</span>`:""}<button class="cs" type="button" aria-label="${QN[q][1]} in ${COLS[t][0]}: open">${c.s}</button><span class="ks">${c.keys.map(k=>`<a href="#${BYN[k].s}">${esc(short(k))}</a>`).join("")}</span></div>`;
+    });
+    if(CELL&&CELL[0]===q&&!narrow())h+=`<div class="bp-panel" id="bppanel">${panelHTML(CELL[0],CELL[1])}</div>`;
+  });
+  g.innerHTML=h;
+  g.querySelectorAll(".bp-td").forEach(el=>{el.addEventListener("click",e=>{if(e.target.closest(".ks a"))return;const q=el.dataset.q,t=el.dataset.t;
+    location.hash=(CELL&&CELL[0]===q&&CELL[1]===t&&!RT)?"big":`cell-${q}-${t}`})});
+  const nb=document.getElementById("bppanel-narrow");nb.innerHTML=CELL&&narrow()?`<div class="bp-panel" id="bppanel">${panelHTML(CELL[0],CELL[1])}</div>`:"";
+  document.querySelectorAll(".bp-routes a").forEach(a=>a.setAttribute("aria-current",String(!!RT&&a.dataset.route===RT.id)));
+  const p=document.getElementById("bppanel");if(p)p.querySelectorAll(".story,li>div,.rstep").forEach(el=>linkify(el));
+}
+const narrow=()=>matchMedia("(max-width:900px)").matches;
+function panelHTML(q,t){
+  const c=CELLS[q][t];const qi=QK.indexOf(q),ti=TKEY.indexOf(t);
+  const texts=E.filter(d=>d.t===t);const keys=new Set(c.keys);
+  const order=[...texts.filter(d=>keys.has(d.n)),...texts.filter(d=>!keys.has(d.n))];
+  const f=ANS[q];
+  let top="";
+  if(RT){const r=ROUTES.find(x=>x.id===RT.id);const st=r.steps[RT.n-1];
+    top=`<div class="rt">${r.title} · step ${RT.n} of ${r.steps.length}</div><p class="rstep">${st[2]}</p>`;}
+  const cellLink=(qq,tt,label)=>`<a href="#cell-${qq}-${tt}">${label}</a>`;
+  let nav;
+  if(RT){const r=ROUTES.find(x=>x.id===RT.id);
+    nav=`<div class="grp">${RT.n>1?`<a href="#route-${r.id}-${RT.n-1}">← Step ${RT.n-1}</a>`:""}${RT.n<r.steps.length?`<a class="pri" href="#route-${r.id}-${RT.n+1}">Step ${RT.n+1} →</a>`:`<a class="pri" href="#big">End of route</a>`}</div><div class="grp"><a href="#cell-${q}-${t}">Leave the route</a></div>`;
+  }else{
+    nav=`<div class="grp">${ti>0?cellLink(q,TKEY[ti-1],"← "+COLS[TKEY[ti-1]][0]):""}${ti<TKEY.length-1?cellLink(q,TKEY[ti+1],COLS[TKEY[ti+1]][0]+" →"):""}</div><div class="grp">${qi>0?cellLink(QK[qi-1],t,"↑ "+QN[QK[qi-1]][1]):""}${qi<QK.length-1?cellLink(QK[qi+1],t,"↓ "+QN[QK[qi+1]][1]):""}<a href="#big">Close</a></div>`;
+  }
+  return `${top}<div class="pe"><a href="#q-${q}">${QN[q][0]} · ${QN[q][1]}</a><a href="#on-${t}">${COLS[t][0]}</a></div>
+    <h3>${c.s}</h3>
+    <p class="story">${c.story}</p>
+    <span class="lt">The texts${keys.size?", key texts first":""}</span>
+    <ul>${order.map(d=>`<li class="${keys.has(d.n)?"key":""}"><a href="#${d.s}">${d.n}</a><div>${f(d)}</div></li>`).join("")}</ul>
+    <div class="bp-nav">${nav}</div>
+    <div class="bp-nav"><div class="grp"><a href="#q-${q}">All traditions on ${QN[q][1].toLowerCase()} →</a><a href="#on-${t}">On the tradition: ${COLS[t][0]} →</a></div></div>`;
+}
+function openBig(id){
+  CELL=null;RT=null;
+  let m=id.match(/^cell-([a-z]+)-([a-z]+)$/);
+  if(m&&CELLS[m[1]]&&CELLS[m[1]][m[2]])CELL=[m[1],m[2]];
+  m=id.match(/^route-([a-z]+)-(\d+)$/);
+  if(m){const r=ROUTES.find(x=>x.id===m[1]);const n=Math.max(1,Math.min(r?r.steps.length:1,+m[2]));if(r){RT={id:r.id,n};CELL=[r.steps[n-1][0],r.steps[n-1][1]]}}
+  drawGrid();
+}
+let lastNarrow=narrow();
+window.addEventListener("resize",()=>{if(narrow()!==lastNarrow){lastNarrow=narrow();if(VIEW==="big")drawGrid()}});
 
 /* Essays: list each tradition's texts beneath it */
 TKEY.forEach(t=>{const v=document.querySelector(`.view[data-view="on-${t}"]`);if(!v)return;
